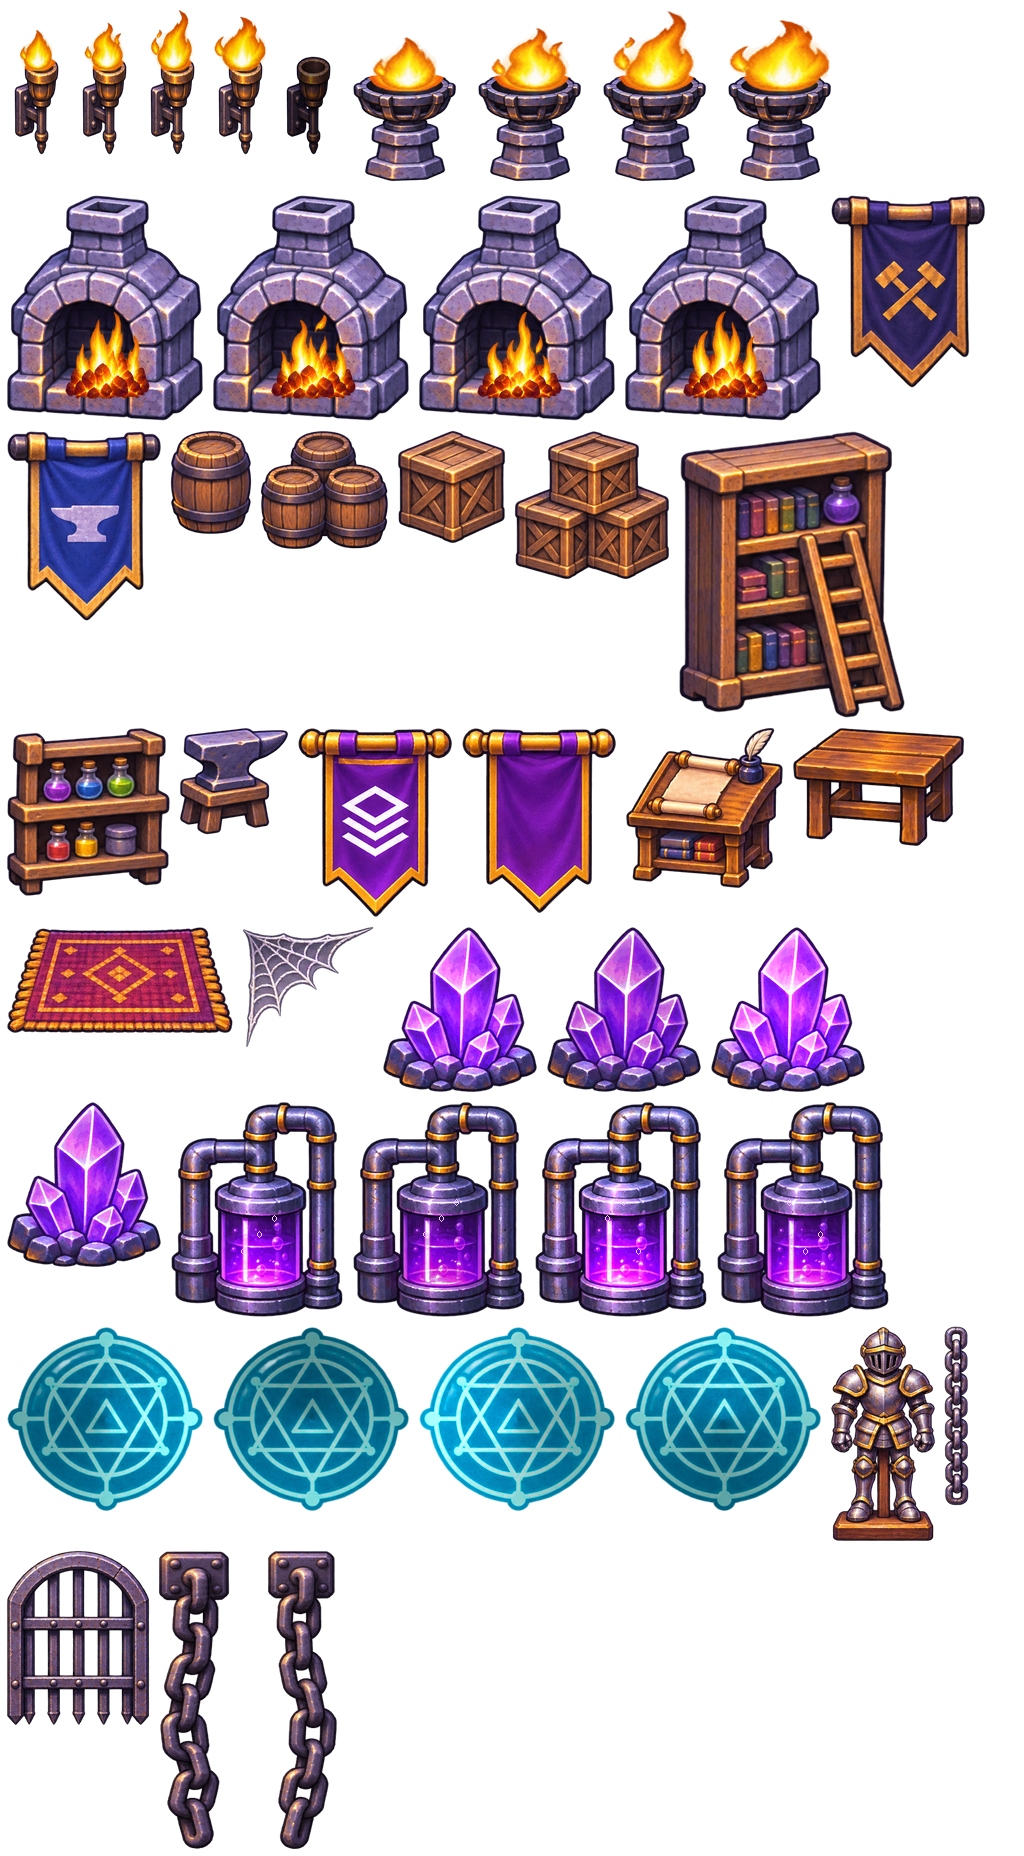
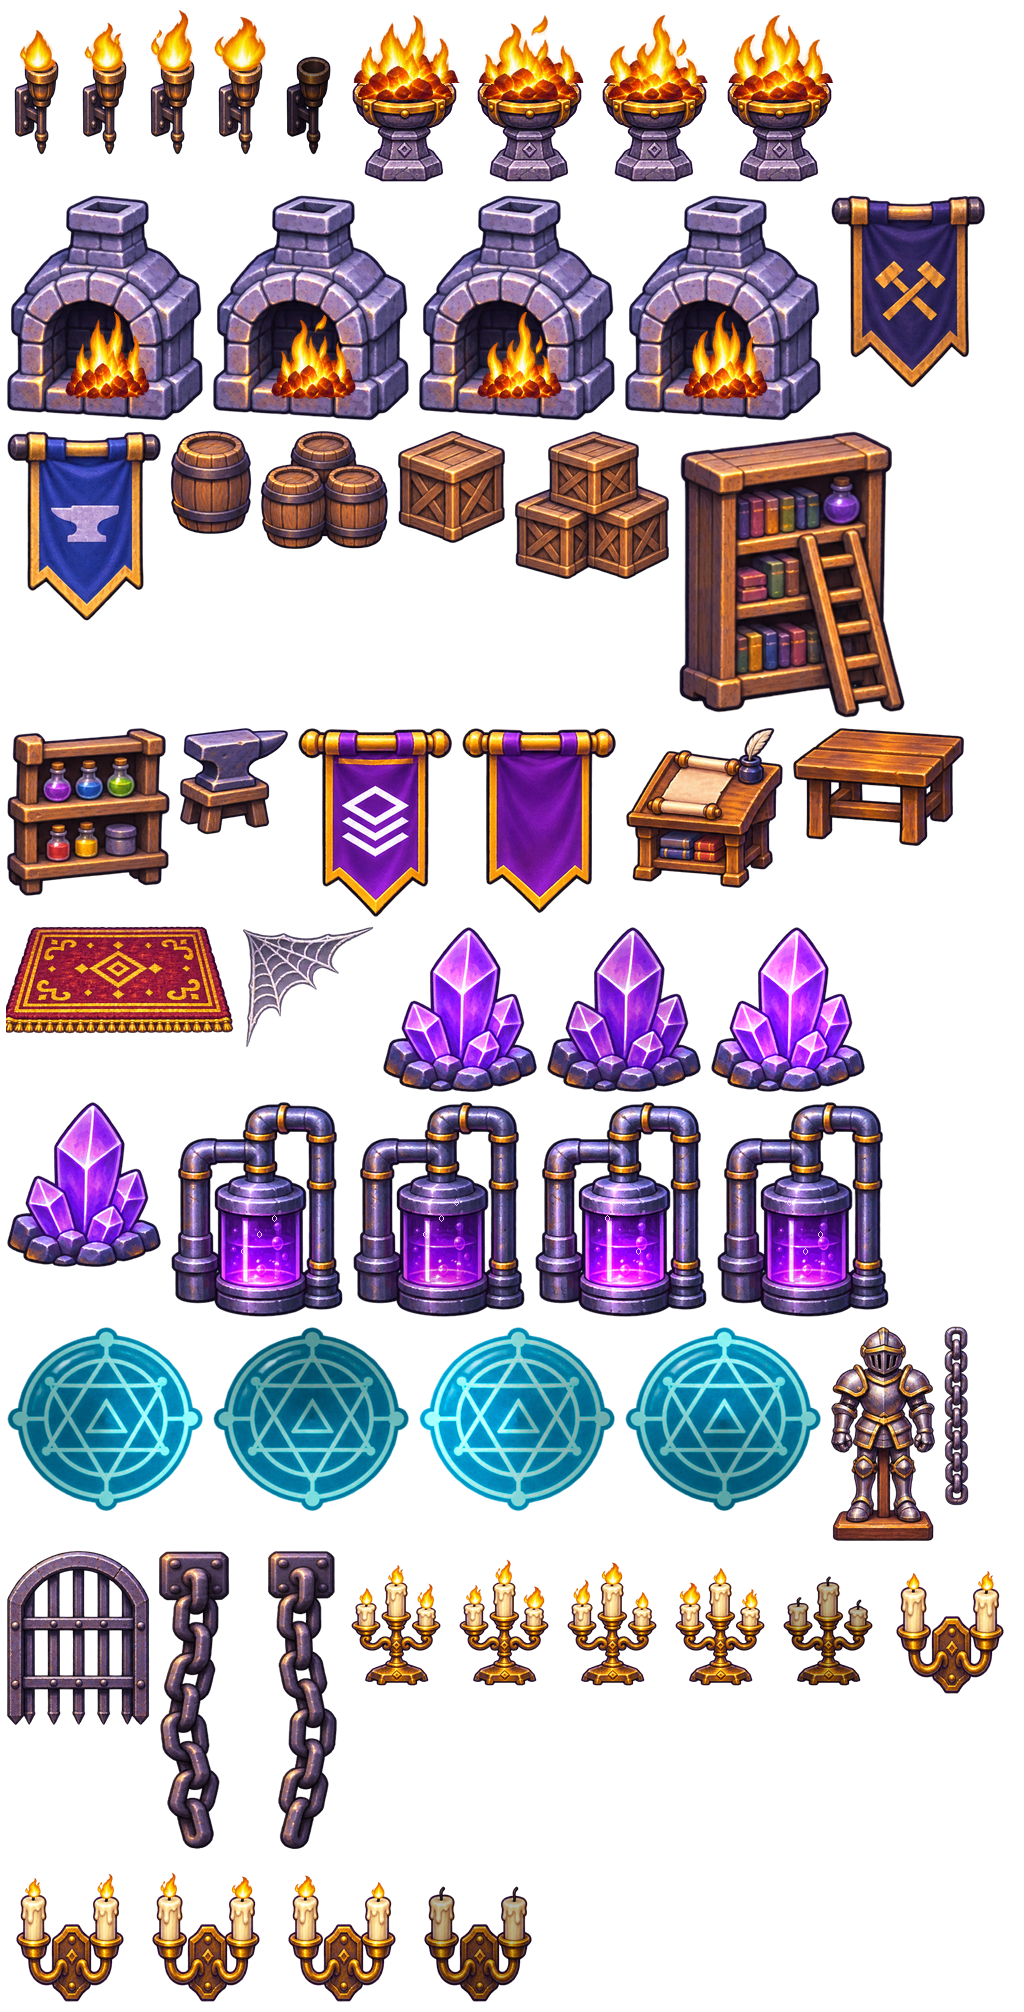
Dungeon Board art v6
New animated candelabra and wall-candles families with unlit variants, a fuller
brazier, richer rug embroidery and brighter banner gold. Existing names and
anchors preserved; 245 frames. Provenance in ASSETS.md; the build script updated.

diff --git a/rendering/scripts/dungeon-art.py b/rendering/scripts/dungeon-art.py
@@ -8,7 +8,7 @@ from pathlib import Path
 import json, math, re, argparse, os, shutil, statistics
 
 LIVE = Path('rendering/src/assets/dungeon')
-OUT = Path('rendering/artifacts/dungeon/v5/staging')
+OUT = Path('rendering/artifacts/dungeon/v6/staging')
 ART = Path('rendering/artifacts/dungeon')
 RESAMPLE = Image.Resampling.LANCZOS
 SHEETS = {}
@@ -439,6 +439,7 @@ def build():
     colour_match()
     build_robots_v4()
     fix_art_v5()
+    build_gold_props_v6()
 
 def pack():
     OUT.mkdir(parents=True,exist_ok=True)
@@ -635,6 +636,7 @@ def validate():
     expected += ['pr-'+x for x in ['ci-running','ci-green','ci-failing','review-awaiting','review-approved','review-changes','conflicts']]+['probe-'+x for x in ['reviewing','approved','findings','stale','failed']]+['seal-automerge']
     expected += ['rampart-x','rampart-y','rampart-corner-tl','rampart-corner-tr','rampart-corner-bl','rampart-corner-br','rampart-end-left','rampart-end-right','rampart-end-top','rampart-end-bottom','rampart-t-down','terrace-floor','alcove-ledge','gate-surround','torch-out','mark-asking','glow-asking']
     expected += ['room-arch','room-cave','room-magic','room-forge','pillar-capital','window-arch','chain-pair']
+    expected += [f'{b}-{i}' for b in ['candelabra','wall-candles'] for i in range(4)]+['candelabra-out','wall-candles-out']
     missing=sorted(set(expected)-set(frames));extra=sorted(set(frames)-set(expected))
     if missing:errors.append('Missing '+str(missing))
     groups={}
@@ -988,9 +990,101 @@ def sync_provenance_v5(out):
     if not dest.exists() or json.loads(src.read_text()).get('version',0)>json.loads(dest.read_text()).get('version',0):shutil.copy2(src,dest)
 
 
+def sources_v6():
+    im=Image.open(ART/'v6/props-raw.png').convert('RGBA');parts=[]
+    for y in range(2):
+        for x in range(2):parts.append(trim(im.crop((round(x*im.width/2),round(y*im.height/2),round((x+1)*im.width/2),round((y+1)*im.height/2)))))
+    return parts
+
+def gold_trim_v6(im):
+    rgb=list(im.getdata());hsv=im.convert('RGB').convert('HSV');lab=ImageCms.applyTransform(im.convert('RGB'),_TO_LAB);ld=list(lab.getdata());mask=bytearray(len(rgb))
+    for k,((h,s,v),(l,a,b),p) in enumerate(zip(hsv.getdata(),ld,rgb)):
+        if p[3]>0 and 18<=h*360/255<=65 and s>64 and v>75 and 68<l<239:
+            ld[k]=(min(248,l+8),max(0,a-1),min(255,b+4));mask[k]=1
+    lab.putdata(ld);out=im.copy();converted=ImageCms.applyTransform(lab,_TO_RGB);out.putdata([(*q,p[3]) if mask[k] else p for k,(p,q) in enumerate(zip(rgb,converted.getdata()))]);return clean(out)
+
+def wax_tops_v6(im,n):
+    """Locate the ivory candle caps, so new flames meet their actual wicks."""
+    px=im.load();result=[]
+    for i in range(n):
+        candidates=[]
+        for y in range(round(im.height*.60)):
+            for x in range(round(i*im.width/n),round((i+1)*im.width/n)):
+                r,g,b,a=px[x,y]
+                if a>180 and r>190 and g>165 and b>105:candidates.append((x,y))
+        top=min(y for x,y in candidates);cap=[x for x,y in candidates if y<=top+max(2,round(im.height*.025))]
+        result.append(((min(cap)+max(cap))/2,top+1))
+    return result
+
+def build_gold_props_v6():
+    parts=sources_v6();fires=source_v5('fire',4,2);maxh=max(f.height for f in fires[:4]);flames=[]
+    for f in fires[:4]:
+        w=round(f.width*72/maxh);h=round(f.height*72/maxh);fire=fit(f,(w,h),True);can=Image.new('RGBA',(72,78));can.alpha_composite(fire,((72-w)//2,76-h));flames.append(can)
+    changed={}
+    # Existing brazier: same frame extent and feet anchor, broader bowl and
+    # full fire bed. Its front lip is redrawn over the coals, not under them.
+    body=fit(parts[2],(105,111),True);base=Image.new('RGBA',(117,180));base.alpha_composite(body,(6,65))
+    for i,f in enumerate(fires[4:]):
+        can=base.copy();layer=Image.new('RGBA',base.size);layer.alpha_composite(fit(f,(117,88),True),(0,8));mouth=Image.new('L',base.size);md=ImageDraw.Draw(mouth);md.rectangle((0,0,116,76),fill=255);md.ellipse((12,70,105,108),fill=255);layer.putalpha(ImageChops.multiply(layer.getchannel('A'),mouth));can.alpha_composite(layer);lip=base.crop((0,94,117,122));can.alpha_composite(lip,(0,94));out=Image.new('RGBA',(121,184));out.alpha_composite(can,(2,2));changed[f'brazier-{i}']=clean(out)
+    changed['rug-red']=framed_v5(parts[3],SPRITES['rug-red'].size)
+    updated=[]
+    for n,im,info in SHEETS['props']:
+        out=changed.get(n,im)
+        if n.startswith('banner-'):out=gold_trim_v6(out)
+        out=prune_micro(out);updated.append((n,out,info));SPRITES[n]=out
+    SHEETS['props']=updated
+    # New optional flame-bearing clusters. Every old frame remains in place.
+    for key,part,count,size,bpos,body_size,baseline,anchor in [
+        ('candelabra',parts[0],3,(100,142),(5,26),(90,110),136,(52,138)),
+        ('wall-candles',parts[1],2,(128,148),(10,28),(108,116),144,(66,2))]:
+        body=fit(part,body_size,True);points=wax_tops_v6(body,count);base=Image.new('RGBA',size);base.alpha_composite(body,bpos)
+        for i in range(4):
+            can=base.copy()
+            for j,(x,y) in enumerate(points):
+                fire=fit(flames[(i+j)%4],(24,28),True);bx=round(bpos[0]+x);by=round(bpos[1]+y)
+                can.alpha_composite(fire,(bx-12,by-27))
+            add('props',f'{key}-{i}',can,anchor,**({'fps':7} if i==0 else {}))
+        dark=base.copy();dark.putdata([(round(r*.72),round(g*.72),round(b*.75),a) for r,g,b,a in base.getdata()]);add('props',key+'-out',dark,anchor)
+
+def load_baseline_props_v6():
+    load_live_art();base=ART/'v6/before';j=json.loads((base/'props.json').read_text());im=Image.open(base/'props.png').convert('RGBA')
+    SHEETS['props']=[]
+    for n,f in j['frames'].items():
+        crop=im.crop((f['x'],f['y'],f['x']+f['w'],f['y']+f['h']));info={k:v for k,v in f.items() if k not in ['x','y','w','h']};SPRITES[n]=crop;META[n]=info;SHEETS['props'].append((n,crop,info))
+
+def props_review_v6():
+    old=ART/'v6/before';j=json.loads((old/'props.json').read_text());atlas=Image.open(old/'props.png');pairs=['brazier-0','rug-red','banner-purple-layers','banner-navy-hammers']
+    can=Image.new('RGBA',(1500,1400),'#221c31');d=ImageDraw.Draw(can);d.text((20,15),'V6 PROPS / previous left / revised right / identical displayed extent',fill='white')
+    for i,n in enumerate(pairs):
+        y=60+i*260;f=j['frames'][n];a=atlas.crop((f['x'],f['y'],f['x']+f['w'],f['y']+f['h']));can.alpha_composite(a,(25,y));can.alpha_composite(SPRITES[n],(620,y));d.text((25,y-20),n,fill='white')
+    y=1130
+    for i,n in enumerate(['candelabra-0','candelabra-out','wall-candles-0','wall-candles-out']):can.alpha_composite(SPRITES[n],(30+i*330,y));d.text((30+i*330,y-25),n,fill='white')
+    can.convert('RGB').save(ART/'v6/props-review.png',optimize=True)
+
+def validate_props_v6():
+    j=json.loads((OUT/'props.json').read_text());old=json.loads((ART/'v6/before/props.json').read_text());errors=[]
+    for n,f in old['frames'].items():
+        if j['frames'].get(n)!=f:errors.append(n+' old metadata changed')
+    for base in ['candelabra','wall-candles']:
+        fs=[j['frames'][f'{base}-{i}'] for i in range(4)]+[j['frames'][base+'-out']]
+        if len({(f['w'],f['h'],f['anchor']['x'],f['anchor']['y']) for f in fs})!=1:errors.append(base+' registration')
+    if (OUT/'robots.png').read_bytes()!=(LIVE/'robots.png').read_bytes():errors.append('robots changed')
+    (ART/'v6/props-validation.json').write_text(json.dumps({'old_frames_preserved':len(old['frames']),'new_frames':10,'errors':errors},indent=2)+'\n')
+    if errors:raise SystemExit(str(errors))
+
+def props_only_v6(publish_live=False):
+    global OUT
+    OUT=ART/'v6/staging';OUT.mkdir(parents=True,exist_ok=True);sync_provenance_v5(OUT)
+    for p in LIVE.iterdir():
+        if p.suffix in ['.png','.json'] and not (p.name=='prompts.json' and (OUT/p.name).exists()):shutil.copy2(p,OUT/p.name)
+    load_baseline_props_v6();build_gold_props_v6();pack();validate();validate_props_v6();contact();props_review_v6()
+    if publish_live:publish()
+
+
 if __name__=='__main__':
-    parser=argparse.ArgumentParser();parser.add_argument('--validate-only',action='store_true');parser.add_argument('--publish',action='store_true');parser.add_argument('--publish-staged',action='store_true');parser.add_argument('--robots-only',action='store_true');parser.add_argument('--art-only',action='store_true');args=parser.parse_args()
-    if args.art_only:art_only_v5(args.publish)
+    parser=argparse.ArgumentParser();parser.add_argument('--validate-only',action='store_true');parser.add_argument('--publish',action='store_true');parser.add_argument('--publish-staged',action='store_true');parser.add_argument('--robots-only',action='store_true');parser.add_argument('--art-only',action='store_true');parser.add_argument('--props-only',action='store_true');args=parser.parse_args()
+    if args.props_only:props_only_v6(args.publish)
+    elif args.art_only:art_only_v5(args.publish)
     elif args.robots_only:robots_only(args.publish)
     elif args.validate_only:
         OUT=LIVE;validate()

diff --git a/rendering/ASSETS.md b/rendering/ASSETS.md
@@ -929,7 +929,7 @@ These are useful original coast parts, not a pixel-identical reconstruction of t
 
 ## Dungeon Board
 
-The geometry kit is v3, robots are v4, and material/furnishing refinements are v5. Artwork was generated with the built-in
+The geometry kit is v3, robots are v4, and material/furnishing refinements are v5–v6. Artwork was generated with the built-in
 `image_gen` tool on 2026-11-06.
 The private `design/references/dungeon-concept.png` was inspected at 3×,
 particularly its LOCAL floor, left terrace, workspace recess and central gate.
@@ -952,11 +952,12 @@ Only animation frame zero supplies `fps`.
 | `gate` | 12 | New upper host surround, lower arch, lit/dark portcullis, stairs with side walls, host disc and crown banner |
 | `stone` | 33 | Existing architecture plus the full raised rampart kit, terrace floor and two diagonal returns |
 | `ui` | 28 | Simple clipped parchment, thin bronze borders, dark discs in pale octagonal mounts, pictograms/counts/dots |
-| `props` | 44 | Restyled furnishings, redrawn torch/brazier/forge flames, animated magic props and new `torch-out` |
+| `props` | 54 | Furnishings, animated fires/magic, candelabra and wall-candle families, unlit variants |
 | `status` | 27 | Existing markers, glows and PR/Probe states, plus violet `mark-asking` / `glow-asking` |
 
-There are 235 frames: every original name and all 233 names requested through
-v3, plus `rampart-return-left` and `rampart-return-right`. These optional
+There are 245 frames: all 235 earlier frames, including the 233 required names
+and the optional `rampart-return-left` / `rampart-return-right`, plus ten new
+optional candle-fixture frames from v6. The two optional
 diagonal wall runs let a terrace or alcove show the angled returns in the
 reference. None of the required names was removed or renamed. PR/Probe names
 continue to follow `prStatus.ts` and `probe.ts`.
@@ -1039,7 +1040,7 @@ asset set; `--publish-staged` checks an already complete stage before replacemen
 Private review images:
 
 - `artifacts/dungeon/calibration.png`: matching LOCAL-left crops at 3×.
-- `artifacts/dungeon/contact-sheet.png`: all 235 labelled frames.
+- `artifacts/dungeon/contact-sheet.png`: all 245 labelled frames.
 - `artifacts/dungeon/mock.png`: the LOCAL floor reconstructed only from sprites, beside the matching 1199×365 concept crop at 3×.
 - `artifacts/dungeon/v3/local-floor.png`: the generated half of that comparison.
 - `artifacts/dungeon/tile-wall-brick-6x4.png` and `tile-wall-brick-dark-6x4.png`: wall-repeat proofs.
@@ -1143,6 +1144,47 @@ crops from the private concept and compare-6 capture. These remain ignored.
 `v5/material-metrics.json` records the numeric colour changes. The comparison
 capture is not presented as an after-fix app screenshot; code-owned layout,
 lighting, tint/compositing and prop placement still require integration.
+
+
+V6 (2026-11-07) follows the compare-10 critique, recorded privately in
+`artifacts/dungeon/gaps-2.md`. Its baseline fidelity score is 7/10; deliberate
+agent emphasis/colours, the quieter gate and real fleet data are excluded.
+The concept's gold was approximately attributed with a documented HSV/manual
+region mask (`v6/gold-attribution.json`): parchment and trim account for about
+47% of that mask, reflected stone/wood and alcoves about 33%, while direct
+flames/candle fixtures/braziers/forge beds account for about 7.5%. These are
+shares of a stricter proxy gold mask, not a reproduction of the user's
+board-level 24%/18% classifier. White-hot cores are under-counted. This supports
+adding believable sources and reflected pools rather than uniformly yellowing
+more wall or brightening the gate.
+
+One additional built-in generation supplies three-candle tabletop brass,
+a paired wall sconce, a substantial unlit brazier bowl/pedestal and richer
+red/gold rug embroidery. Its exact prompt/source are in `v6_generations` in
+`prompts.json`; the raw output is ignored at `artifacts/dungeon/v6/props-raw.png`.
+V5's registered fire art is reused for the lit fixtures and a broader brazier
+fire bed. The brazier coals are contained in its mouth and the front rim is
+painted over them. Existing banner gold is made a little brighter, preserving
+cloth colours and glyphs. All existing frame rectangles and anchors remain
+identical, including the brazier/rug/banner extents. Robots, gate/stair textures
+and all other sheets retain their pixels.
+
+The optional new `props` families are `candelabra-0..3` (three tabletop candles,
+feet anchor) and `wall-candles-0..3` (paired wall sconce, top-centre anchor), plus
+`candelabra-out` and `wall-candles-out`. Each family's four lit frames and
+unlit frame share canvas and anchor; frame zero supplies 7 fps. The renderer
+must register those animation bases, place them in room/desk groups and supply
+local warm spill; the art addition does not itself change the app layout.
+Physical rug/brazier/banners sizes remain the renderer's decision.
+
+The builder's `--props-only` mode stages v6 from its preserved pre-pass props
+in `artifacts/dungeon/v6/before/`, validates all sheets and old metadata, and
+updates the contact sheet and `v6/props-review.png`. `--props-only --publish`
+replaces only changed files with atomic renames. The full raw-source rebuild
+includes the same v6 refinement. Original 235 names and all old anchors are
+preserved; 245 total frames validate and the asset folder stays below 12 MB.
+The critique's paired remaining-gap crops are `artifacts/dungeon/gaps-2.png`;
+`v6/candle-poses.png` shows the registered new fire fixtures.
 
 Remaining differences: the concept's masonry has more bespoke pixel-like chips,
 uneven joints and integrated painted shadows. V3 is smoother, its joins and
